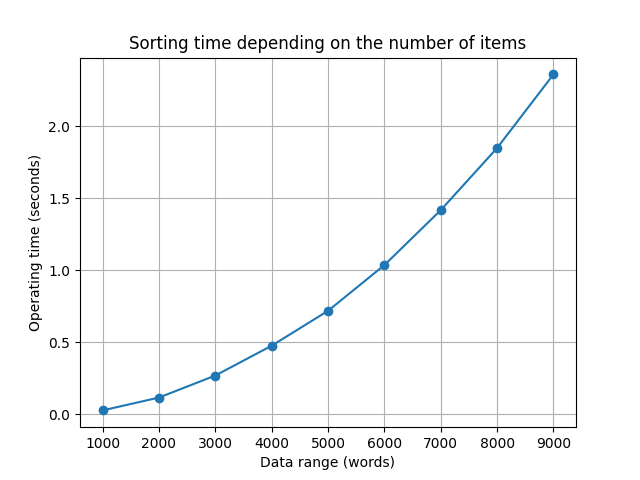
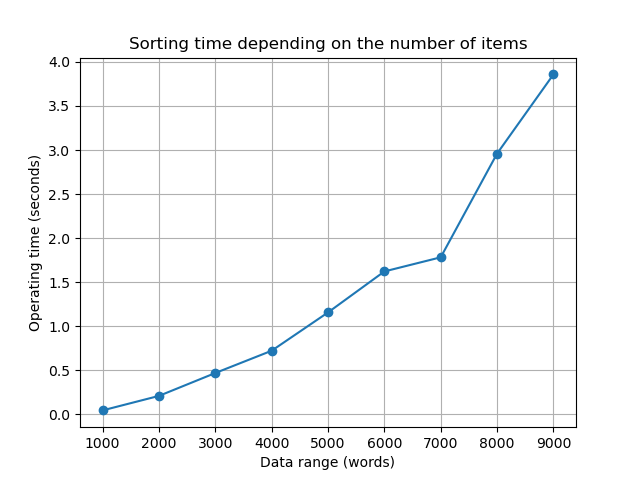
implemented heap 2-arny everything is working

diff --git a/kopce/kopiec 2-arny.py b/kopce/kopiec 2-arny.py
@@ -1,0 +1,91 @@
+class heap:
+    def __init__(self, T):
+        self.nodes = T
+        self.build_max_heap()
+
+    def __len__(self):
+        return len(self.nodes)
+
+    def swap(self, i, j):
+        self.nodes[i], self.nodes[j] = self.nodes[j], self.nodes[i]
+
+    def add(self, element):
+        self.nodes.append(element)
+        self.heapify_up(len(self)-1)
+
+    def heapify_up(self, element_index):
+        if element_index == 0:
+            return
+        parent = (element_index-1)//2
+        if self.nodes[element_index] <= self.nodes[parent]:
+            return
+        else:
+            self.swap(element_index, parent)
+            self.heapify_up(parent)
+    
+    def pop_root(self):
+        self.swap(0, len(self)-1)
+        del self.nodes[-1]
+        self.max_heapify(len(self), 0)
+
+    def max_heapify(self, heap_size, i):
+        left = 2*i + 1
+        right = 2*i + 2
+        largest = i
+        if left < heap_size and self.nodes[left] > self.nodes[i]:
+            largest = left
+
+        if right < heap_size and self.nodes[right] > self.nodes[largest]:
+            largest = right
+
+        if largest != i:
+            self.swap(i, largest)
+            self.max_heapify(heap_size, largest)
+
+    def build_max_heap(self):
+        heap_size = len(self)
+        for i in range(heap_size//2, -1, -1):   # for all the parents 
+            self.max_heapify(heap_size, i)
+
+    def __str__(self):
+        output = ""
+        i = 1
+        levels = 0
+        while (i < len(self)):
+            i *= 2
+            levels += 1
+        index = 0
+        level = 0
+        while index < len(self):
+            count = 2 ** level
+            level_nodes = self.nodes[index:index + count]
+
+            # Oblicz margines na początku linii, żeby wyśrodkować
+            spaces = " " * ((2 ** (levels - level)) - 1)
+
+            # Odstępy między elementami tego poziomu
+            between = " " * ((2 ** (levels - level + 1)) - 1)
+
+            line = spaces + between.join(str(x) for x in level_nodes)
+            output += line + "\n"
+
+            index += count
+            level += 1
+
+        return output
+
+
+def main():
+    a = [1, 4, 2, 1, 6, 5, 7, 2, 7, 10, 3]
+    h1 = heap(a)
+    h1.add(12)
+    h1.add(8)
+    h1.add(4)
+    h1.add(5)
+    h1.add(9)
+    h1.pop_root()
+    h1.pop_root()
+    print(h1)
+
+
+main()
